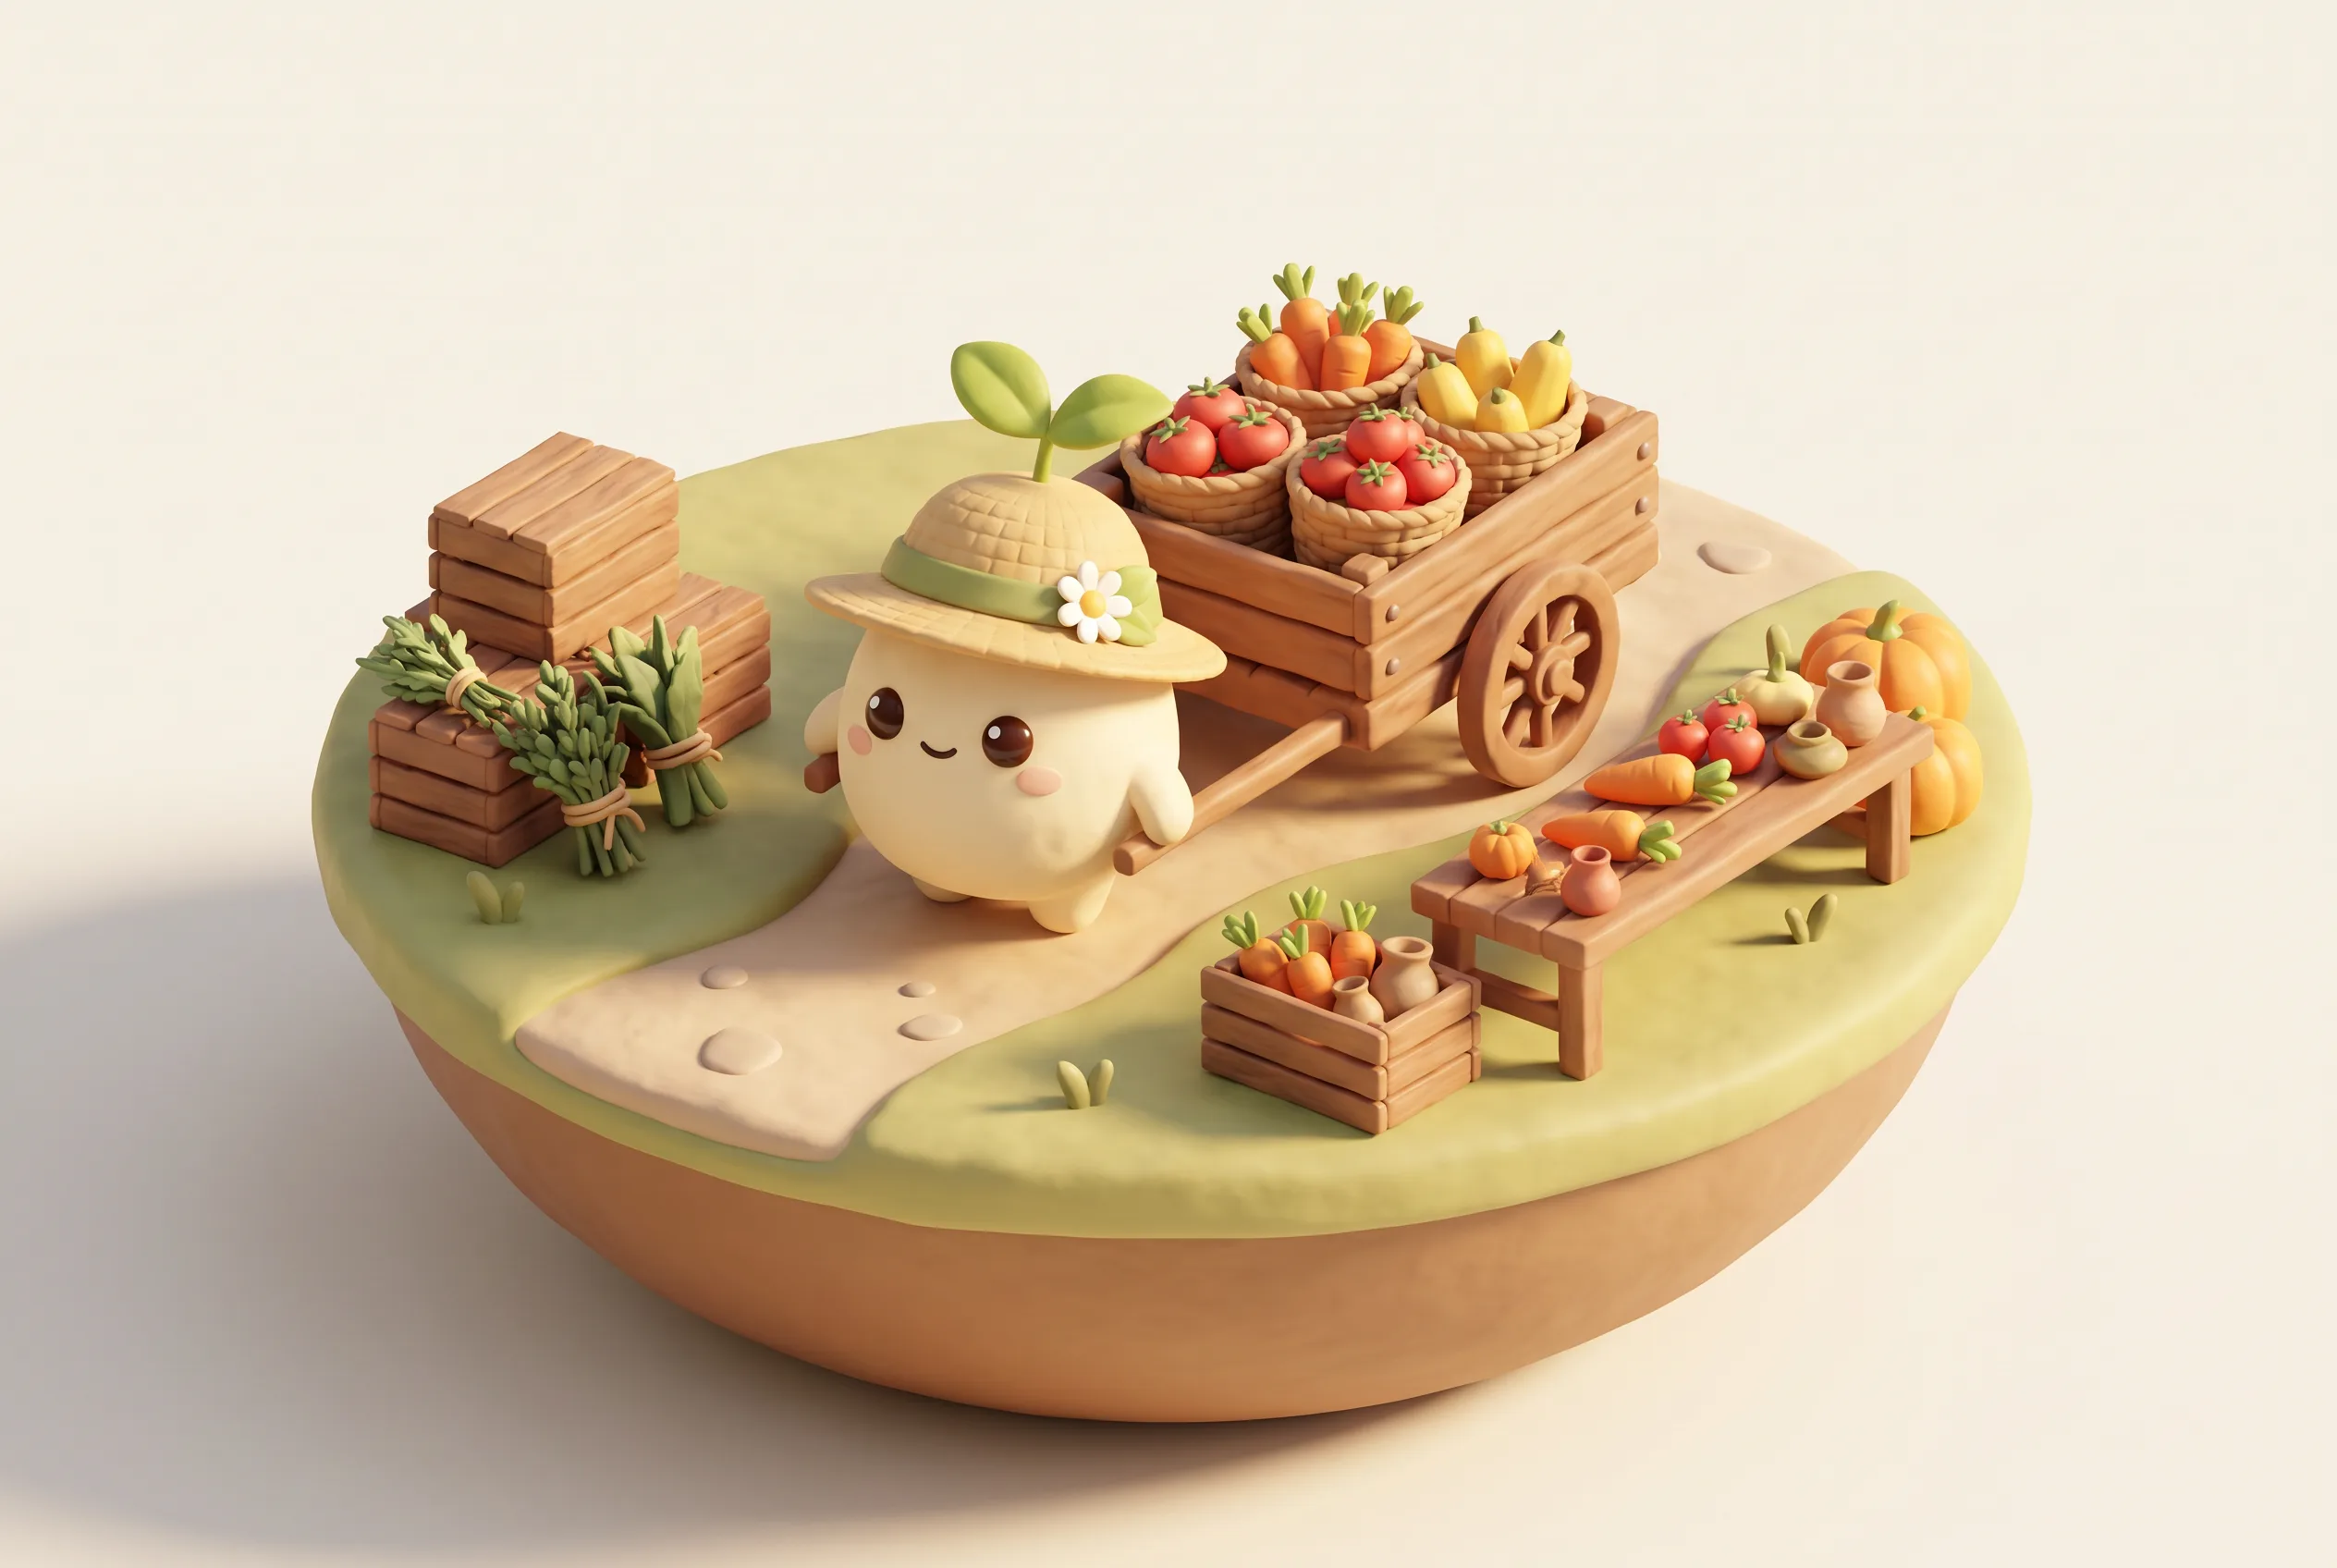
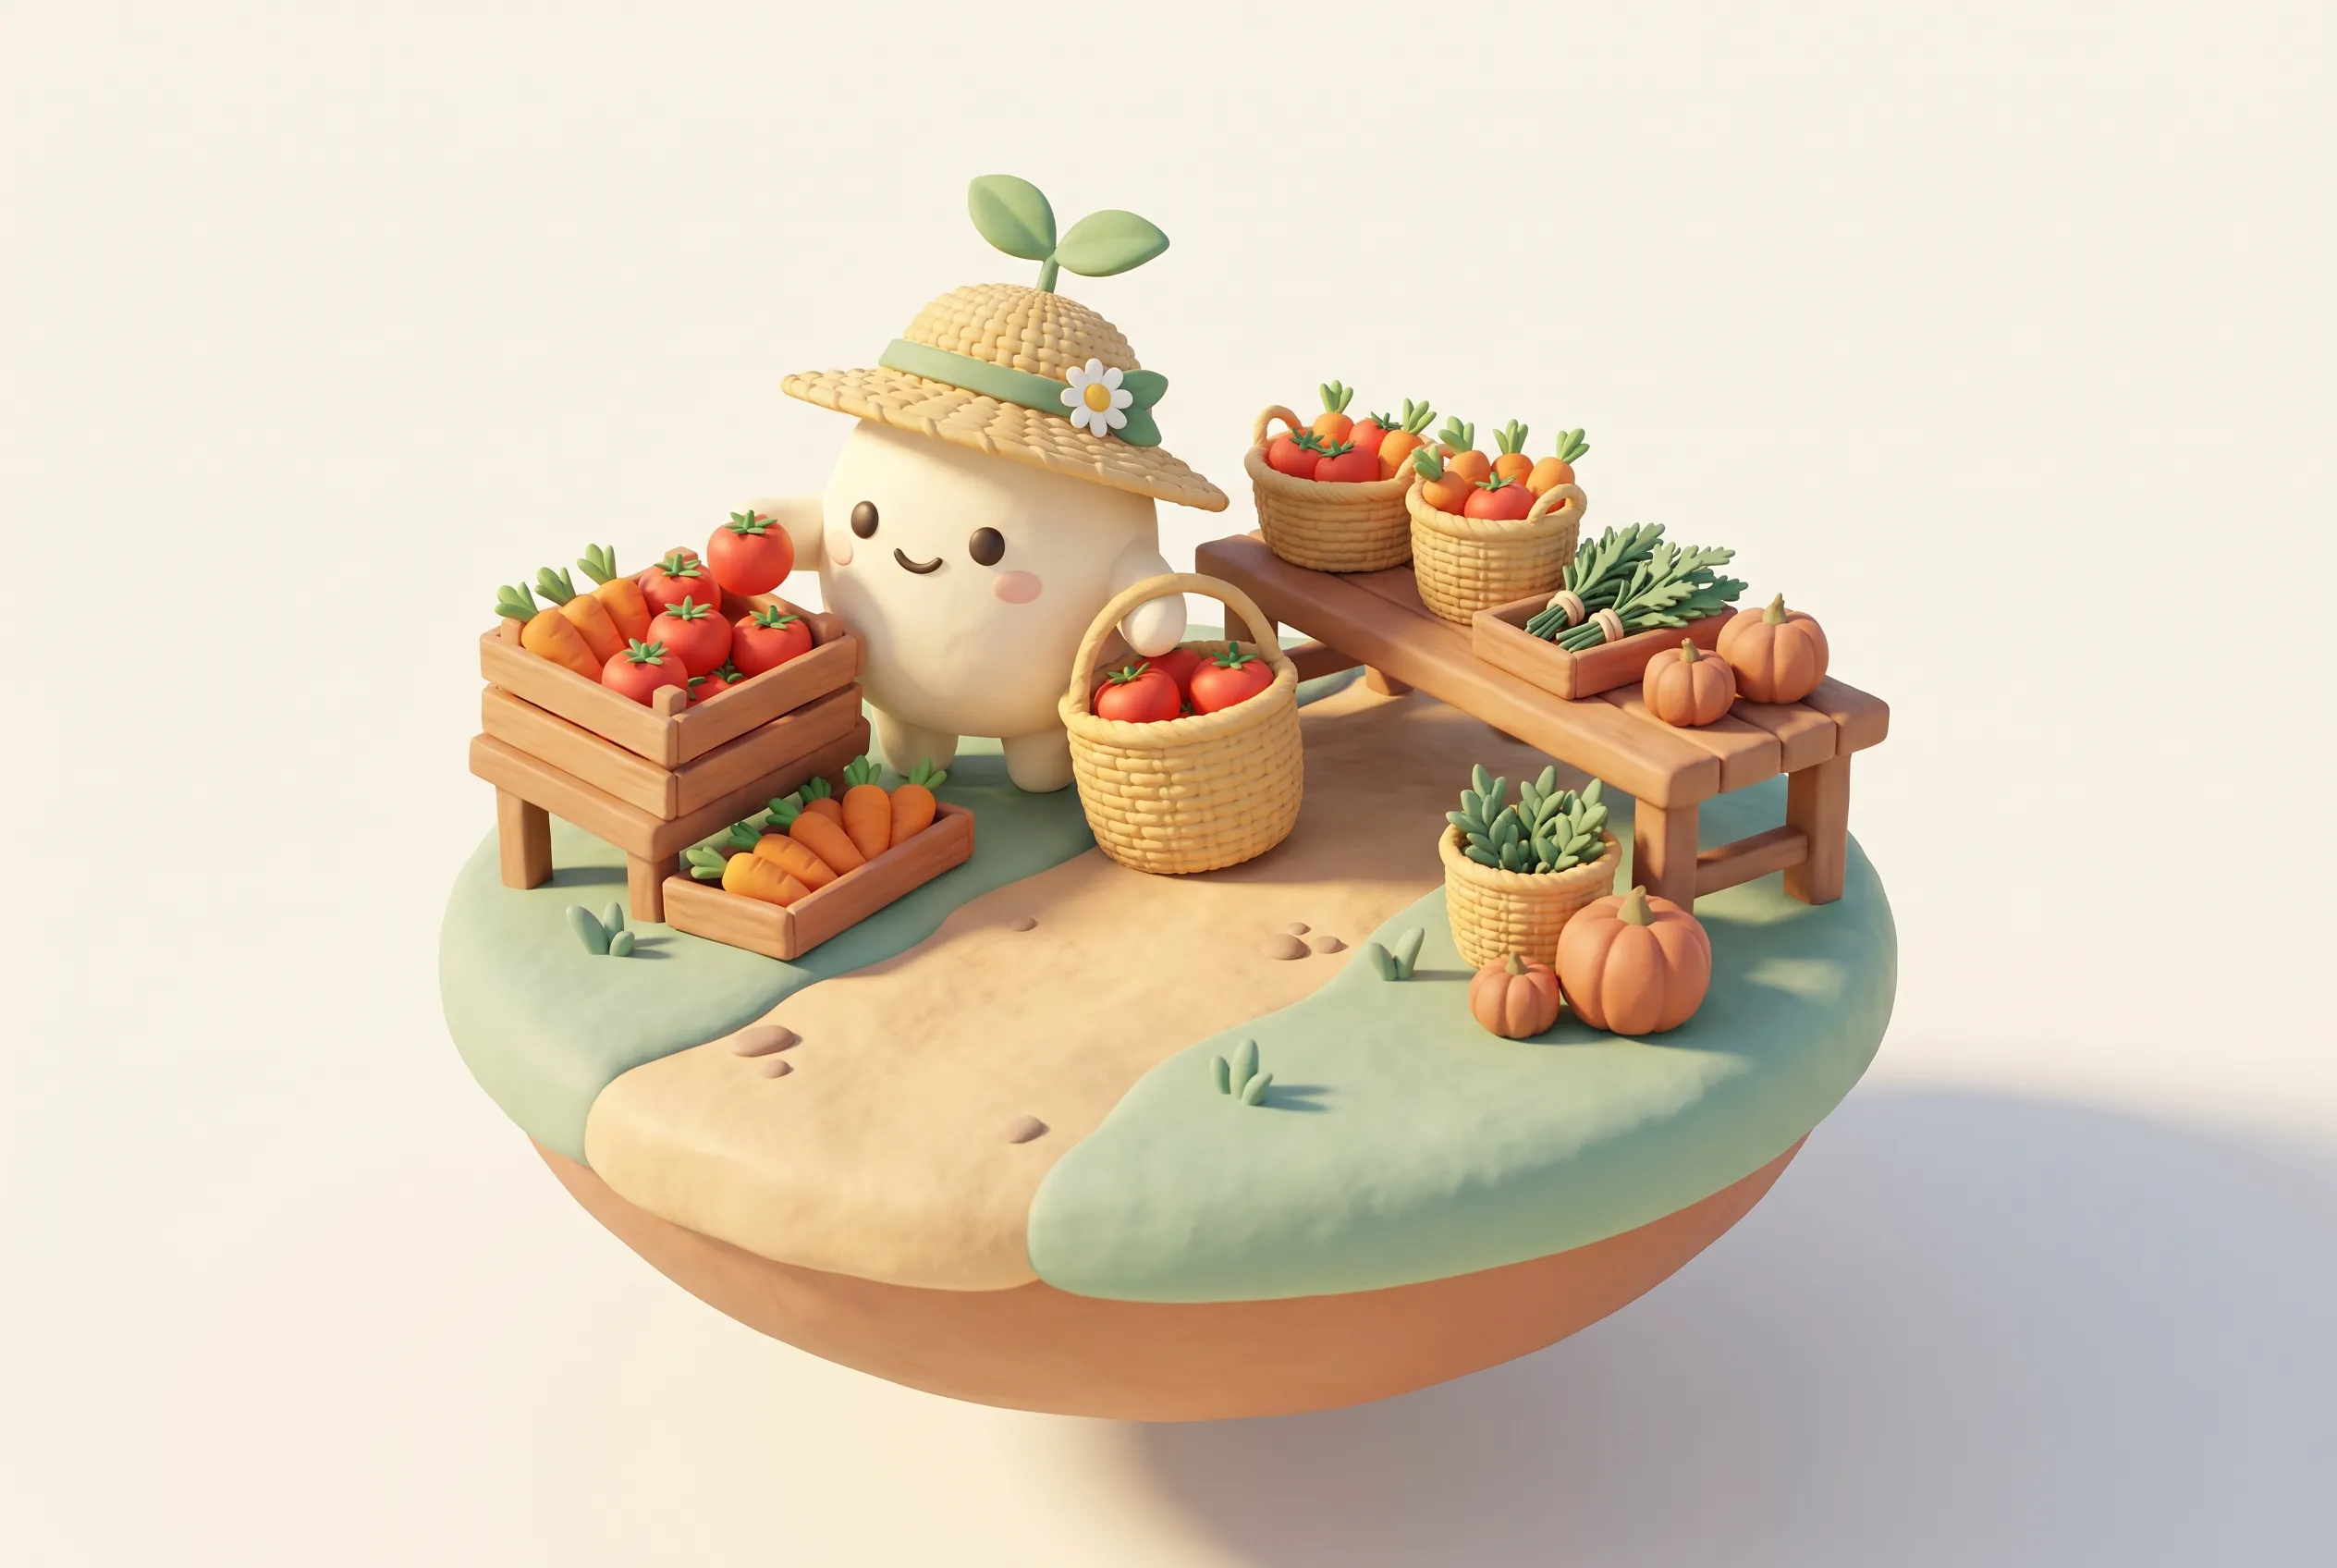
feat(seedworld): cartless harvest scene + nav/typography/scroll-start fixes
Harvest chain regenerated (Seedance, frame-locked): the mascot now picks
tomatoes and carrots into a woven basket — no more cart, no orbit, subject
visible and animated the whole clip. Both connectors re-rolled with a
stay-low-over-the-ground constraint so the flights keep the miniature world
in frame instead of empty cream sky; scene_4 poster updated to match.
Seam table max 20.9 (pre-existing), new seams 14.4-20.5.

UX fixes:
- Refresh always starts at the top: scrollRestoration=manual + a 600ms
  top-pin guard (Chrome commits deferred restoration after the track grows)
- Nav item 1 / route dot 1 reset instantly to the true start (frame 0),
  killing the reverse fly-through and lerp artifacts
- Top-nav pills restored (preflight was zeroing button padding/background):
  spacing, hover, and accent active state
- Hero titles much bigger: clamp(3.2rem,7.5vw,7rem), balanced wrapping,
  stronger cream halo; eyebrow bumped; copy column widened

diff --git a/src/lib/scrollWorld.js b/src/lib/scrollWorld.js
@@ -190,9 +190,16 @@ export function mountScrollWorld(container, config) {
   }
 
   function jumpTo(i) {
-    // Section 0 returns to the true top of the page, not the middle of its
-    // scroll band — "back to the start" should really be the start.
-    if (i === 0) { window.scrollTo({ top: 0, behavior: reduce ? 'auto' : 'smooth' }); return; }
+    // Section 0 resets to the true start of the page, instantly. A smooth
+    // scroll from deep in the page would scrub every clip backward on the way
+    // up (and the lerp then plays dive_1 in reverse on arrival) — snapping
+    // reproduces exactly what a fresh load shows: frame 0 of the first dive.
+    if (i === 0) {
+      window.scrollTo(0, 0);
+      read();
+      SEGMENTS.forEach(s => { s.cur = s.target; });
+      return;
+    }
     const seg = SECTIONS[i]._seg;
     window.scrollTo({ top: seg.start + (seg.end - seg.start) * 0.5, behavior: reduce ? 'auto' : 'smooth' });
   }
@@ -323,12 +330,36 @@ export function mountScrollWorld(container, config) {
   on('resize', onResize);
   on('orientationchange', layout);
   on('load', layout);
+  // The world is a story that starts at the top: opt out of the browser's
+  // scroll restoration so a refresh mid-flight doesn't drop the visitor into
+  // the middle of a clip. Chrome commits its deferred restoration the moment
+  // layout() grows the track past the saved offset (even with the flag set
+  // mid-load), so pin the top for the first moments — until the visitor
+  // scrolls on purpose (wheel/touch/key; 'scroll' itself also fires from the
+  // restoration, so it can't be the signal).
+  const prevScrollRestoration = ('scrollRestoration' in history) ? history.scrollRestoration : null;
+  try { history.scrollRestoration = 'manual'; } catch (e) {}
+  window.scrollTo(0, 0);
+  let userScrolled = false;
+  const markUserScroll = () => { userScrolled = true; };
+  ['wheel', 'touchstart', 'keydown'].forEach(ev => on(ev, markUserScroll, { passive: true, once: true }));
+  const mountT0 = performance.now();
+  (function guardStart() {
+    if (dead || userScrolled) return;
+    if (window.scrollY !== 0) {
+      window.scrollTo(0, 0);
+      read();
+      SEGMENTS.forEach(s => { s.cur = s.target; });
+    }
+    if (performance.now() - mountT0 < 600) requestAnimationFrame(guardStart);
+  })();
   layout();
   requestAnimationFrame(raf);
 
   return {
     destroy() {
       dead = true;
+      if (prevScrollRestoration) { try { history.scrollRestoration = prevScrollRestoration; } catch (e) {} }
       winListeners.forEach(([ev, fn, opts]) => window.removeEventListener(ev, fn, opts));
       SEGMENTS.forEach(s => { if (s.video) { try { URL.revokeObjectURL(s.video.src); } catch (e) {} } });
       container.classList.remove('sw-root');

diff --git a/src/components/apps/SeedWorld.vue b/src/components/apps/SeedWorld.vue
@@ -218,19 +218,36 @@ onUnmounted(() => {
 }
 .seed-world .sw-copy__title {
   font-family: var(--sw-font-display);
-  font-size: clamp(2.6rem, 6vw, 5.2rem);
+  font-size: clamp(3.2rem, 7.5vw, 7rem);
   font-weight: 700;
-  line-height: 1.03;
+  line-height: 0.98;
+  letter-spacing: -0.02em;
+  text-wrap: balance;
   /* Soft cream halo lifts the title off the busy video without a scrim box. */
-  text-shadow: 0 2px 28px rgba(245, 241, 232, 0.95), 0 0 60px rgba(245, 241, 232, 0.7);
+  text-shadow:
+    0 2px 30px rgba(245, 241, 232, 0.98),
+    0 0 70px rgba(245, 241, 232, 0.85),
+    0 0 120px rgba(245, 241, 232, 0.6);
 }
 .seed-world .sw-copy__eyebrow {
-  font-size: 0.95rem;
+  font-size: 1.05rem;
+  letter-spacing: 0.18em;
   text-shadow: 0 1px 16px rgba(245, 241, 232, 0.9);
 }
-.seed-world .sw-copy { width: min(46vw, 560px); }
+.seed-world .sw-copy { width: min(58vw, 860px); }
+/* Preflight zeroes button padding (unlayered beats the engine's @layer sw),
+   which jams the nav items together — restore the pill layout here. */
+.seed-world .sw-nav { gap: 6px; padding: 5px 6px; }
+.seed-world .sw-nav__item {
+  padding: 8px 16px;
+  font-size: 0.85rem;
+  font-weight: 600;
+  border-radius: 999px;
+}
+.seed-world .sw-nav__item:hover { background: color-mix(in srgb, var(--sw-accent) 12%, transparent); }
+.seed-world .sw-nav__item.is-active { background: var(--sw-accent); color: #FFF8ED; }
 @media (max-width: 860px) {
-  .seed-world .sw-copy__title { font-size: clamp(2.2rem, 8.5vw, 3.2rem); }
+  .seed-world .sw-copy__title { font-size: clamp(2.6rem, 10vw, 3.8rem); }
   .seed-world .sw-copy { width: auto; }
 }
 .seed-world-sound {